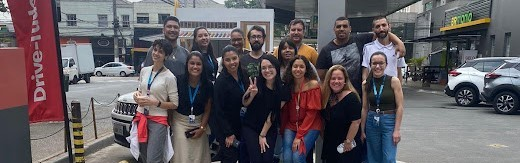
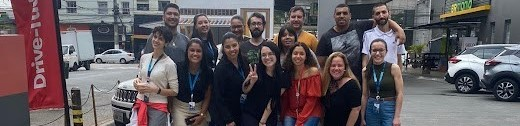
Updates2

diff --git a/styles.css b/styles.css
@@ -112,7 +112,7 @@ aside span {
 
 .memory img {
   width: 100%;
-  height: 260px;
+  height: auto;
   object-fit: cover;
   border-radius: 8px;
 
@@ -121,7 +121,7 @@ aside span {
 
 .memory div {
   width: 100%;
-  height: 260px;
+  height: 100%;
   overflow: hidden;
   border-radius: 8px;
 }
@@ -134,6 +134,7 @@ aside span {
   font-size: 1.2rem;
   color: #bebebf;
   line-height: 28px;
+  text-align: justify;
 }
 
 @media (max-width: 768px) {

diff --git a/index.html b/index.html
@@ -40,7 +40,7 @@
     <nav>
       <!-- Memória 5 -->
       <a
-        href="https://github.com/Catarina-Gomes"
+        href="https://github.com/Catarina-Gomes?tab=repositories"
         target="_blank"
         class="memory"
       >
